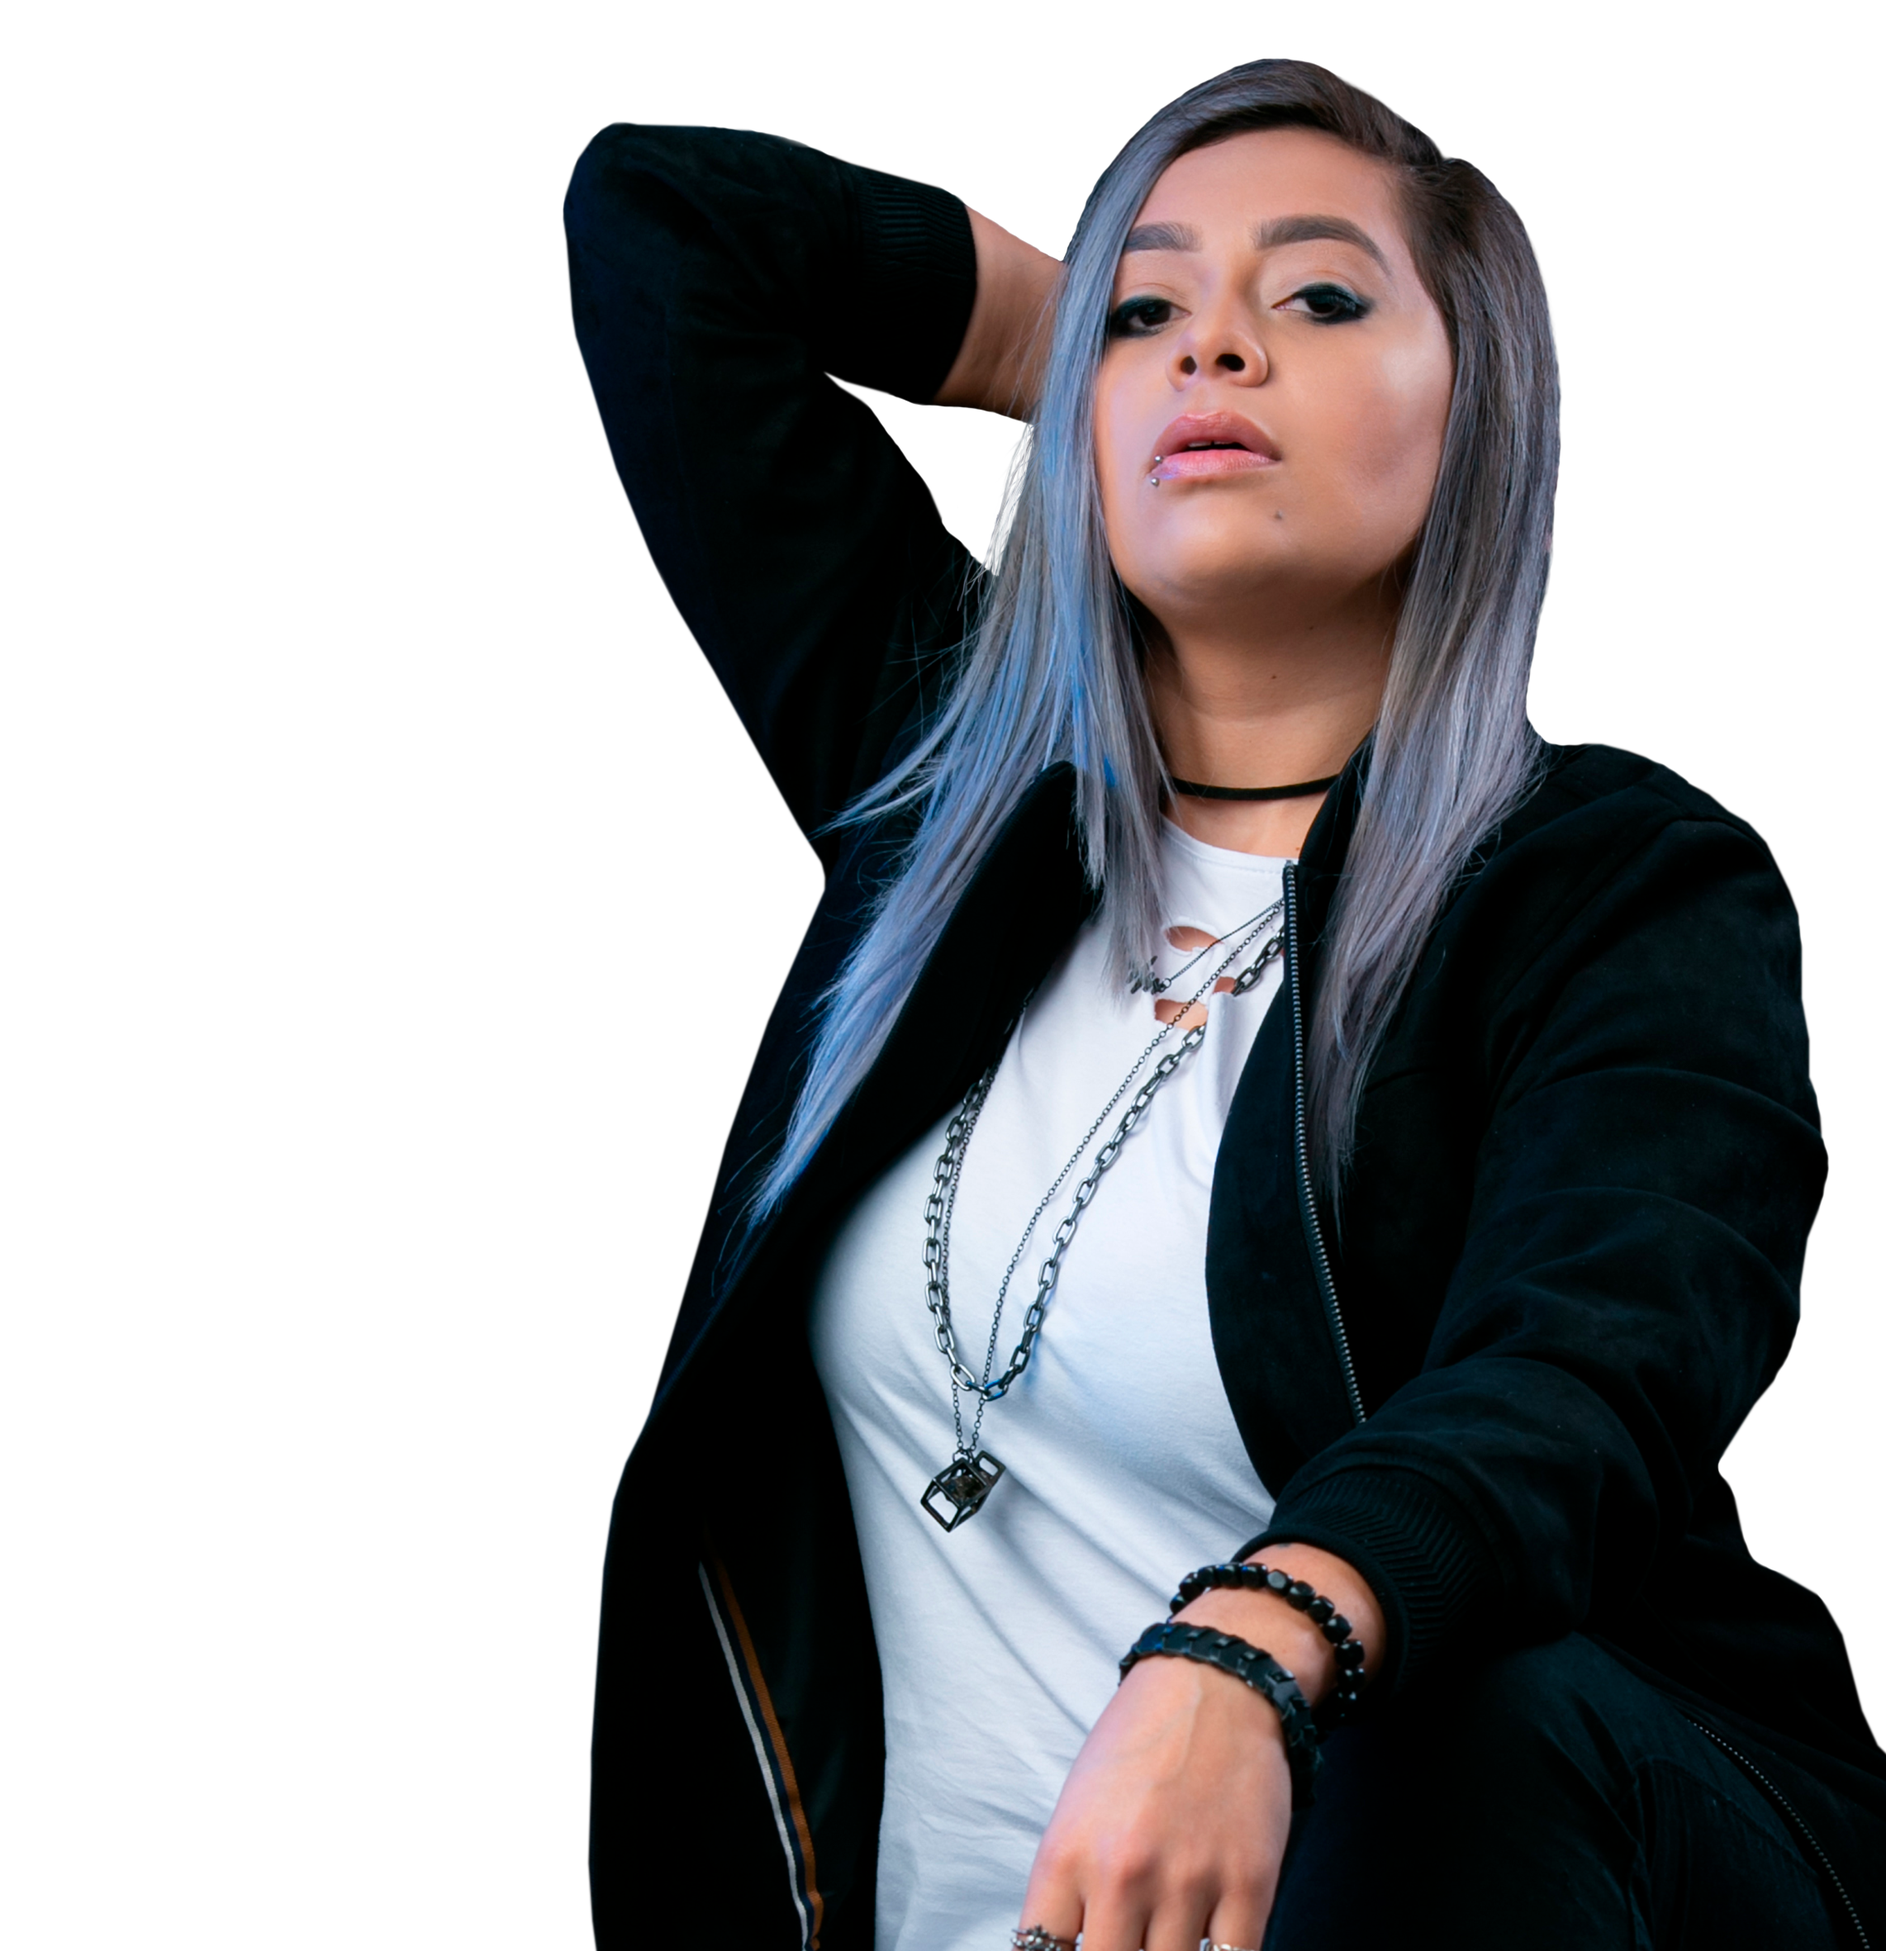
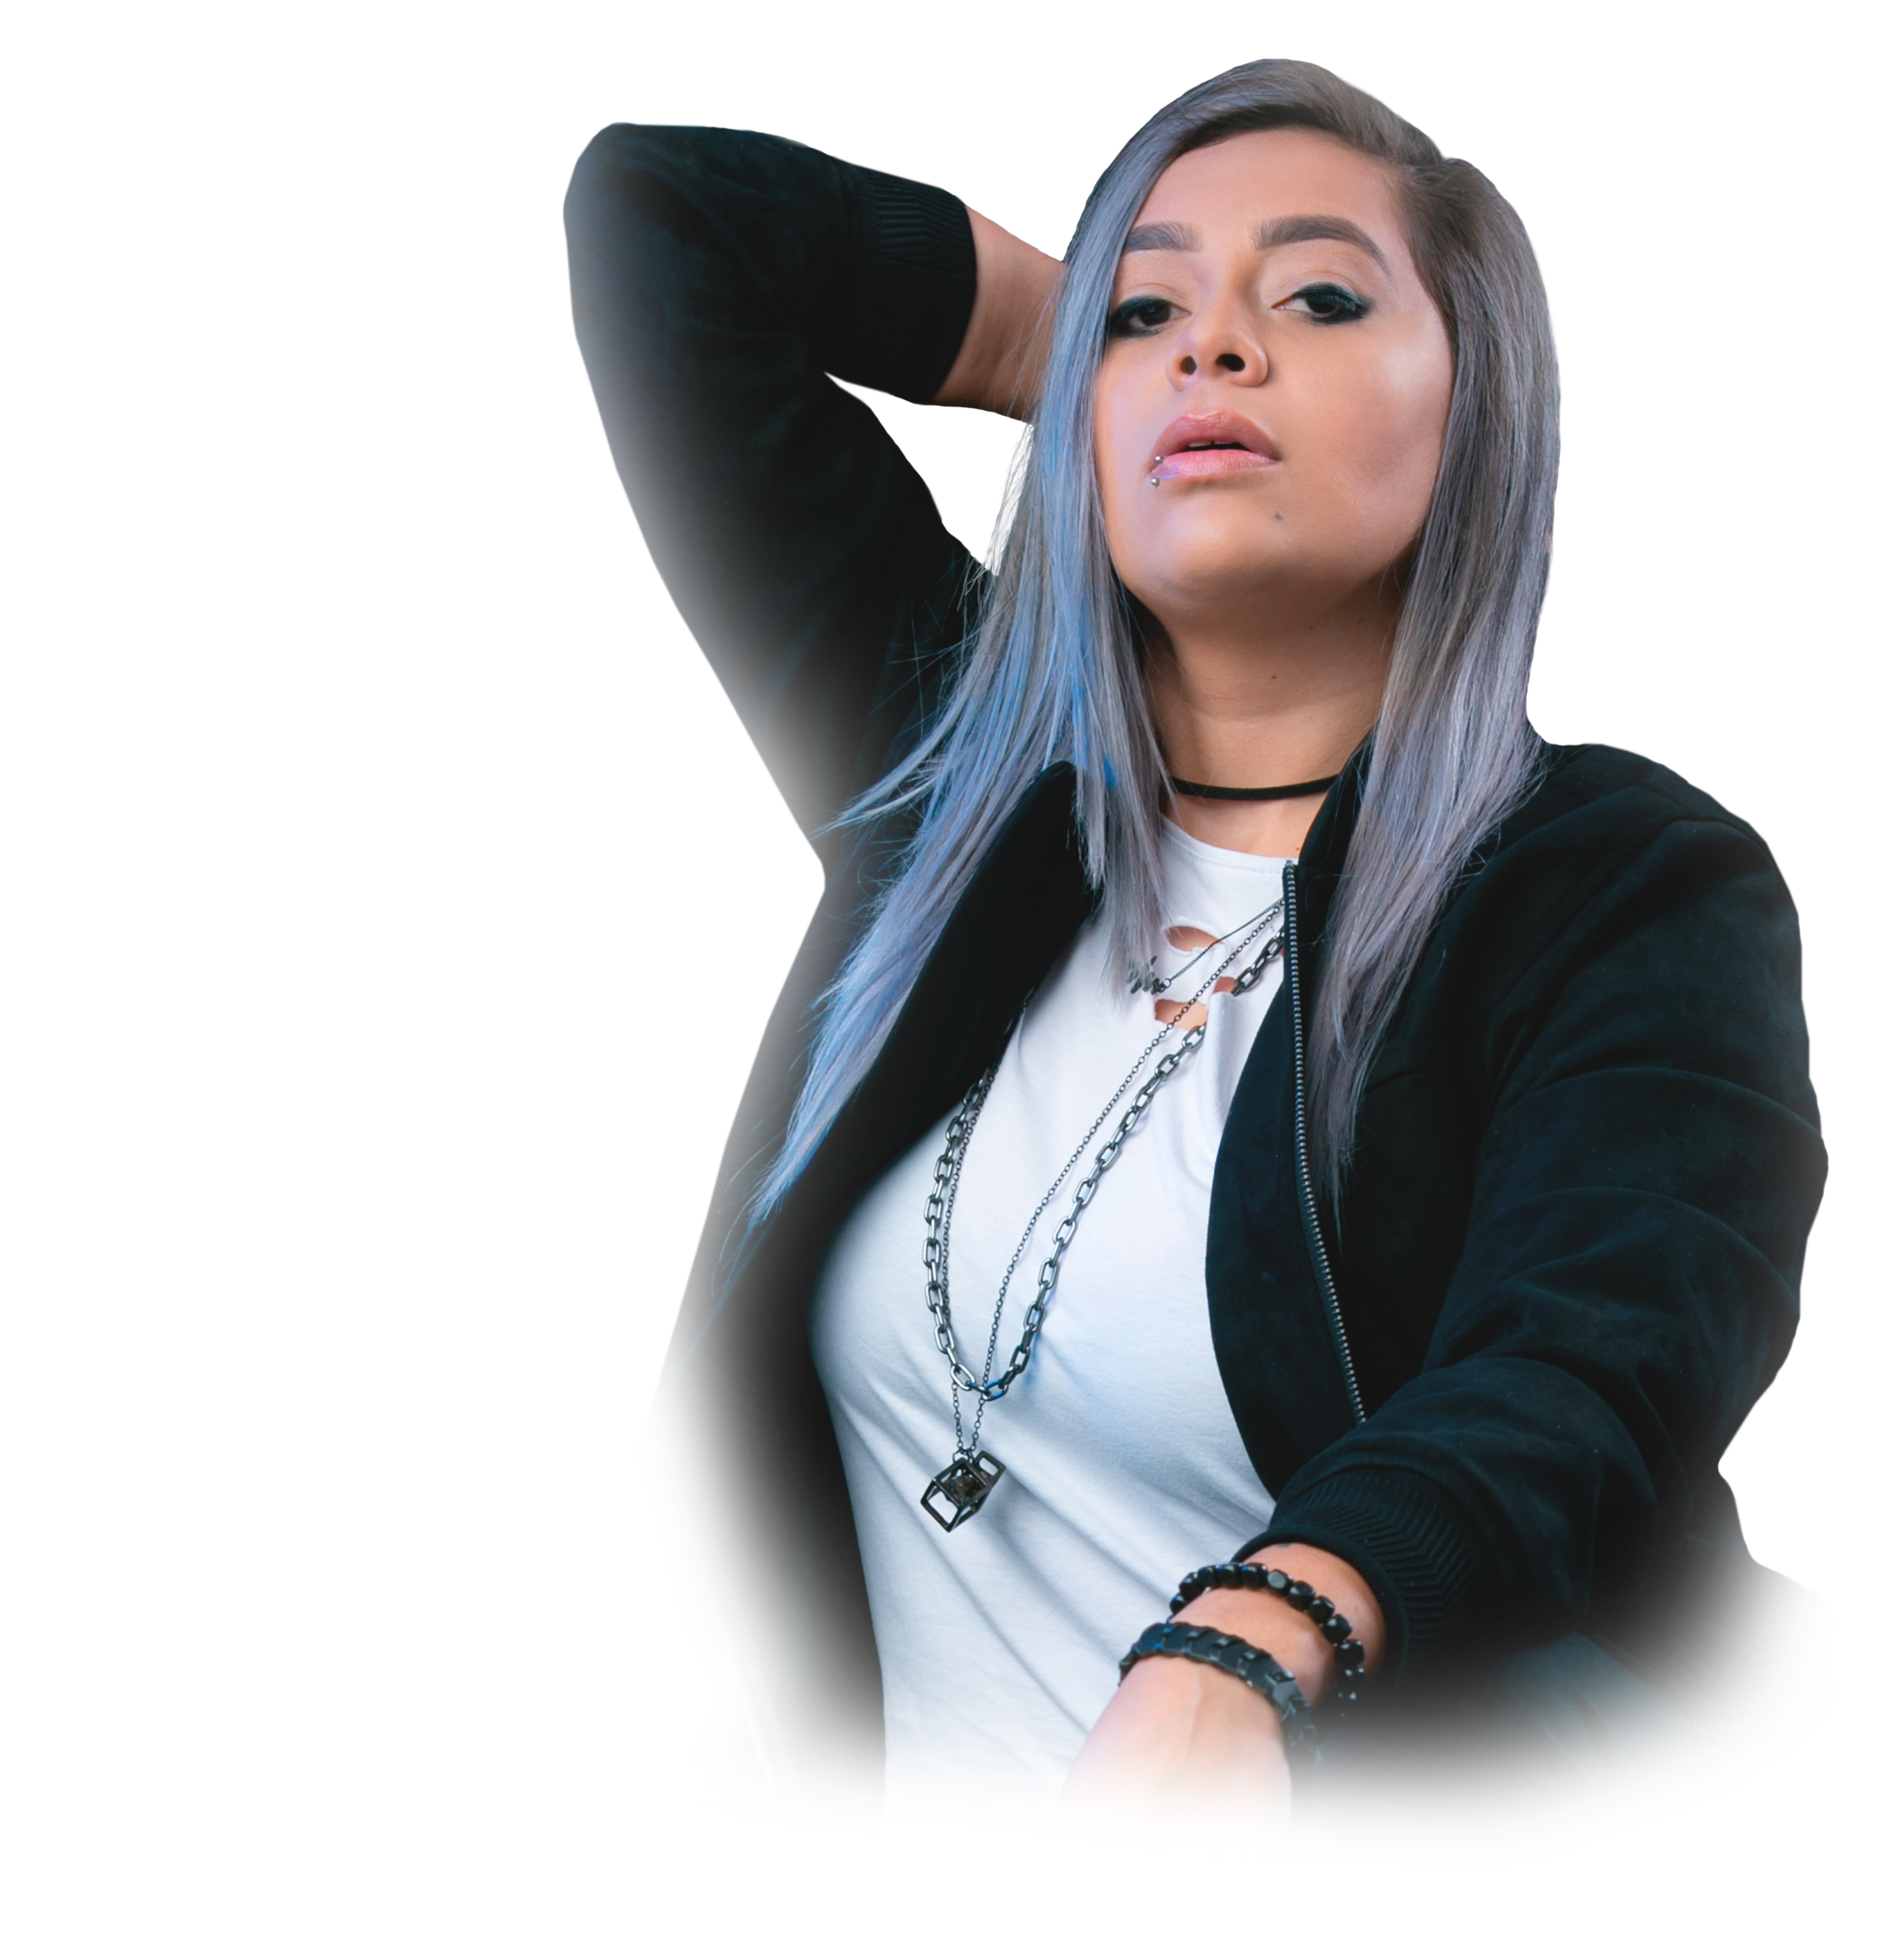
implementação dos resultados e nova config da bio

Changed region(s): [[0.2799, 0.0618, 1.0, 1.0], [0.622, 0.0309, 0.8397, 0.2782]]

diff --git a/index.html b/index.html
@@ -36,6 +36,7 @@
           <img src="./assets/LogoTigrePreto.png">
      </header>
      
+
      <section class="destaquePrincipal">
          
           <img src="./assets/front page - pc - modelo 2.png">
@@ -43,9 +44,6 @@
                <a href="https://api.whatsapp.com/send?phone=5541997393176" target="_blank">
                     <div></div>
                </a>
-         
-          
-  
      </section>
 
 
@@ -124,24 +122,28 @@
 
 
      <section class="bio">
+
           <div class="tituloBio">
-                
-               <img  src="./assets/titulobeah.png" >
-              
+         
+                    <img id="tituloBioImage" src="./assets/titulobeah.png" />
+           
+                    <img  id="imgBio" src="./assets/beah1.png"/>
           </div>
-          
+              
+        
+     
           <div class="biotext" >
+               
                <div>
-                    <p>A Dj, produtora, cantora e multi-instrumentista, <br>
-                         Bruna Alice, é o nome por trás de beáh. <br>
-                         Hoje é uma das artistas mais relevantes no estado<br>
-                         do Paraná, marcando presença nos top clubs do brasil<br>
-                         mais precisamente em santa catarina. <br>
-                         atualmente a artista reside em são paulo. <br>
-                         Beáh não se limita a vertentes, com grooves <br>
-                         marcantes e vocais sensuais ela se conecta com <br>
-                         a pista atraves de sua sonoridade de personalidade<br>
-                         forte, indo do g-house ao bass house. 
+                    <p>A Dj, produtora, cantora e multi-instrumentista,
+                         Bruna Alice, é o nome por trás de beáh. 
+                         Hoje é uma das artistas mais relevantes no sul do Brasil,
+                         marcando presença nos top clubs do país,
+                         atualmente a artista reside em São Paulo. 
+                         Beáh não se limita a vertentes, com grooves 
+                         dançantes, ela se conecta com a pista atraves
+                         de sua sonoridade forte e sempre proporcionando
+                         aprensentações memoráveis.
                     </p>
 
                <div class="Listamarcos">
@@ -164,46 +166,71 @@
                                    "BUD LOVER - NBA É NA BUD" - 2021
                               </span>
                          </div>
-
-                         <div class="marcos">
-                              <h3>
-                                   TOP 2 NO BEATPORT
-                              </h3>
-                              <span>
-                                 SINGLE "KILLER GIRL" NO RANKING G-MAFIA
-                              </span>
-          
-                         </div>
-                         
-                         <div class="marcos">
-                              <h3>
-                                   TOP 59 NO BEATPORT
-                              </h3>
-                              <span>
-                                   SINGLE "KILLER GIRL" NO MINIMAL/DEEP TECH
-                              </span>
-                         </div>
-
                     </ul>
                </div>
            </div>
-          
+           
            </div>
            
       </section>
 
-
       <section>
+          <div class="results">
+               <h1>Musica & Redes Sociais</h1>
+
+               <div class="resultsList">
+                    <ul>
+                         <div class="resultItem">
+                              <h3>
+                                  + de 200k de Views
+                              </h3>
+                              <span>
+                                  no Tiktok
+                              </span>
+     
+                         </div>
+                        
+                         <div class="resultItem">
+                              <h3>
+                                   + de 1 milhão de Views
+                              </h3>
+                              <span>
+                                   no Kwai
+                              </span>
+                         </div>
+
+                         <div class="resultItem">
+                              <h3>
+                                   + de 35k de plays
+                              </h3>
+                              <span>
+                                   no Spotify
+                              </span>
+                         </div>
+
+                         <div class="resultItem">
+                              <h3>
+                                   + de 100k de plays
+                              </h3>
+                              <span>
+                                   no SoundCloud
+                              </span>
+                         </div>
+                    </ul>
+               </div>
+          </div>
+
       </section>
 
+      <div class="top">
+          <a href="#" >
+               <img src="./assets/top.png" alt="Voltar ao topo" width="40px" height="40px">
+          </a>
+     </div>
       <footer>
           Coming soon! 
       </footer>
-    <div class="top">
-     <a href="#" >
-          <img src="./assets/top.png" alt="Voltar ao topo" width="40px" height="40px">
-     </a>
-    </div>
+    
       
      <script src="./sketch.js"></script>
      <script src="https://cdn.jsdelivr.net/npm/@glidejs/glide"></script>

diff --git a/CSS/style.css b/CSS/style.css
@@ -22,12 +22,7 @@
      /* caminho da barra
      sombra na barra*/
     
-     background: #ffffff;
-     background: -moz-linear-gradient(top,  #ffffff 7%, #869ef1 7%, #869ef1 100%);
-     background: -webkit-linear-gradient(top,  #ffffff 7%,#869ef1 7%,#869ef1 100%);
-     background: linear-gradient(to bottom,  #ffffff 7%,#869ef1 7%,#869ef1 100%);
-     filter: progid:DXImageTransform.Microsoft.gradient( startColorstr='#ffffff', endColorstr='#869ef1',GradientType=0 );
-     
+     background: #dacaf9;
      width: 6px;
 }
 
@@ -80,11 +75,12 @@ body{
      color: black;
      font-size: 70%;
      margin-left: 20%;
+     font-size: 130%;
 }
 
 .navbar img{
-    width: 3%;
-    height: 3%;
+    width: 2.5%;
+    height: 2.5%;
     margin: 0.5%;
 }
 
@@ -93,7 +89,7 @@ body{
 }
 
 .destaquePrincipal{
-     margin-bottom: 38%;
+     margin-bottom: 12%;
      display: flex;
      flex-direction: column;
 }
@@ -101,7 +97,7 @@ body{
 .destaquePrincipal img {
      width: 100%;
      height: 30%;
-     margin-top: -13%;
+     margin-top: -19%;
 }
 
 .destaquePrincipal div{
@@ -134,6 +130,7 @@ body{
 
 .latest-Releases h1{
      padding-left: 50px;
+     margin-bottom:10%;
 }
 
 h1{
@@ -151,39 +148,41 @@ h1{
 
      width: 1349px;
      margin-top: 100px;
- 
+     display:flex;
+      
+     flex-direction: row;
+     flex-wrap: wrap;
 
 }
 
 .tituloBio{
+     margin-left: 80px;
      display: flex;
      flex-direction: row;
-     margin-left: 80px;
 }
-.tituloBio img{
+#tituloBioImage{
      margin-top: 20px;
-     margin-bottom: 30px;
-     width: 640px;
-     height: 200px; 
+     width: 80%;
+     height: 30%;
+ 
 }
-.titulobio .fotolateral img{
-      width: 700px;
 
+#imgBio{
+     padding-top:-19%;
+     width: 700px;
+      /* padding-right:10% */
 }
 
 .tituloBio{
-     width:640px
+     width:640px;
 }
 
-.biotext img{
-     width: 515px;
-     height: 550px;  
-}
 
 .biotext {
-      display:flex;
+ 
       margin-left: 80px;
-
+      width: 53%;
+      margin-top: -34%;
 
 }
 
@@ -206,10 +205,26 @@ h1{
      align-content: center;
 }
 
+.results{
+     font-size: 20px;
+     width: 1349px;
+     margin-top: 100px;
+     padding-left:80px;
+     margin-bottom:241px;
+}
+
+.results h1{
+     margin-bottom: 20px;
+}
+
+.resultItem{
+     margin-bottom:20px;
+     padding-left: 50px;
+}
+
 
 
 footer{
-     margin-top: 80px;
      background-color: azure;
      color: black;
      height: 350px;
@@ -219,15 +234,11 @@ footer{
 .top{
      position: sticky;
      bottom: 0;
-     padding-left: 1290px;
+     padding-left: 93%;
      scroll-behavior: smooth;
-
-    
+     margin-bottom: -16%;
 }
 
-.top img{
-     margin-bottom: 20px;
-}
 
 .top div{
      width: 50px;
